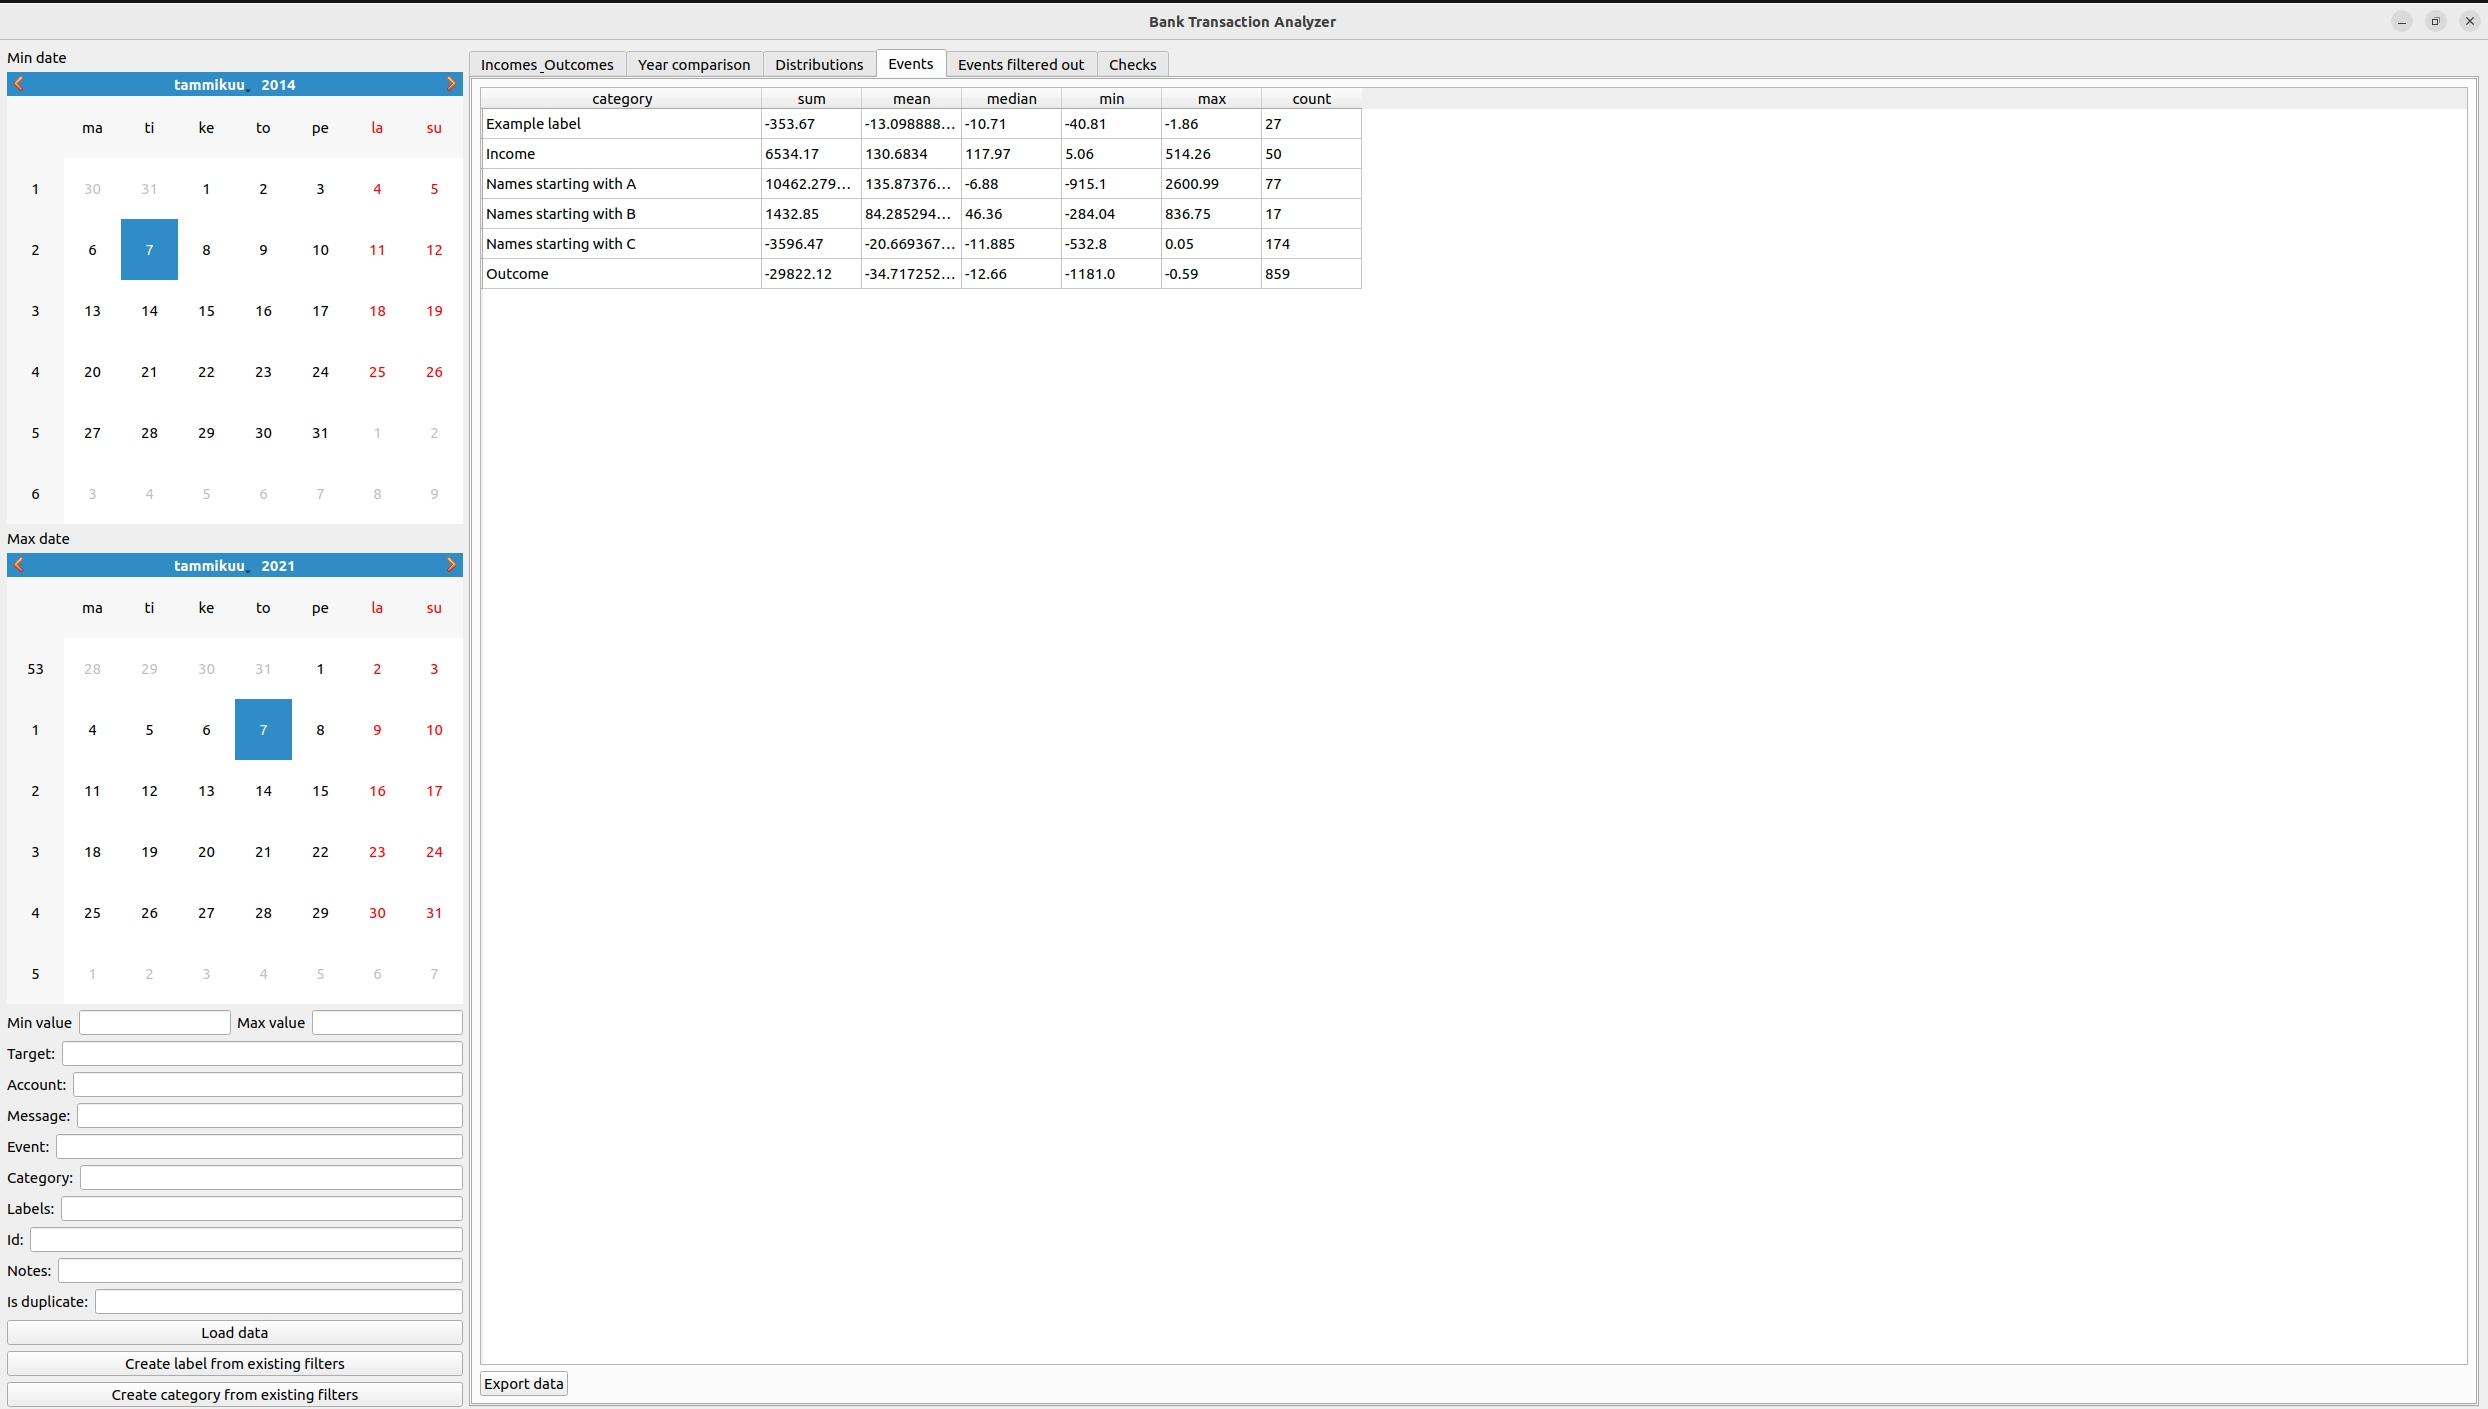
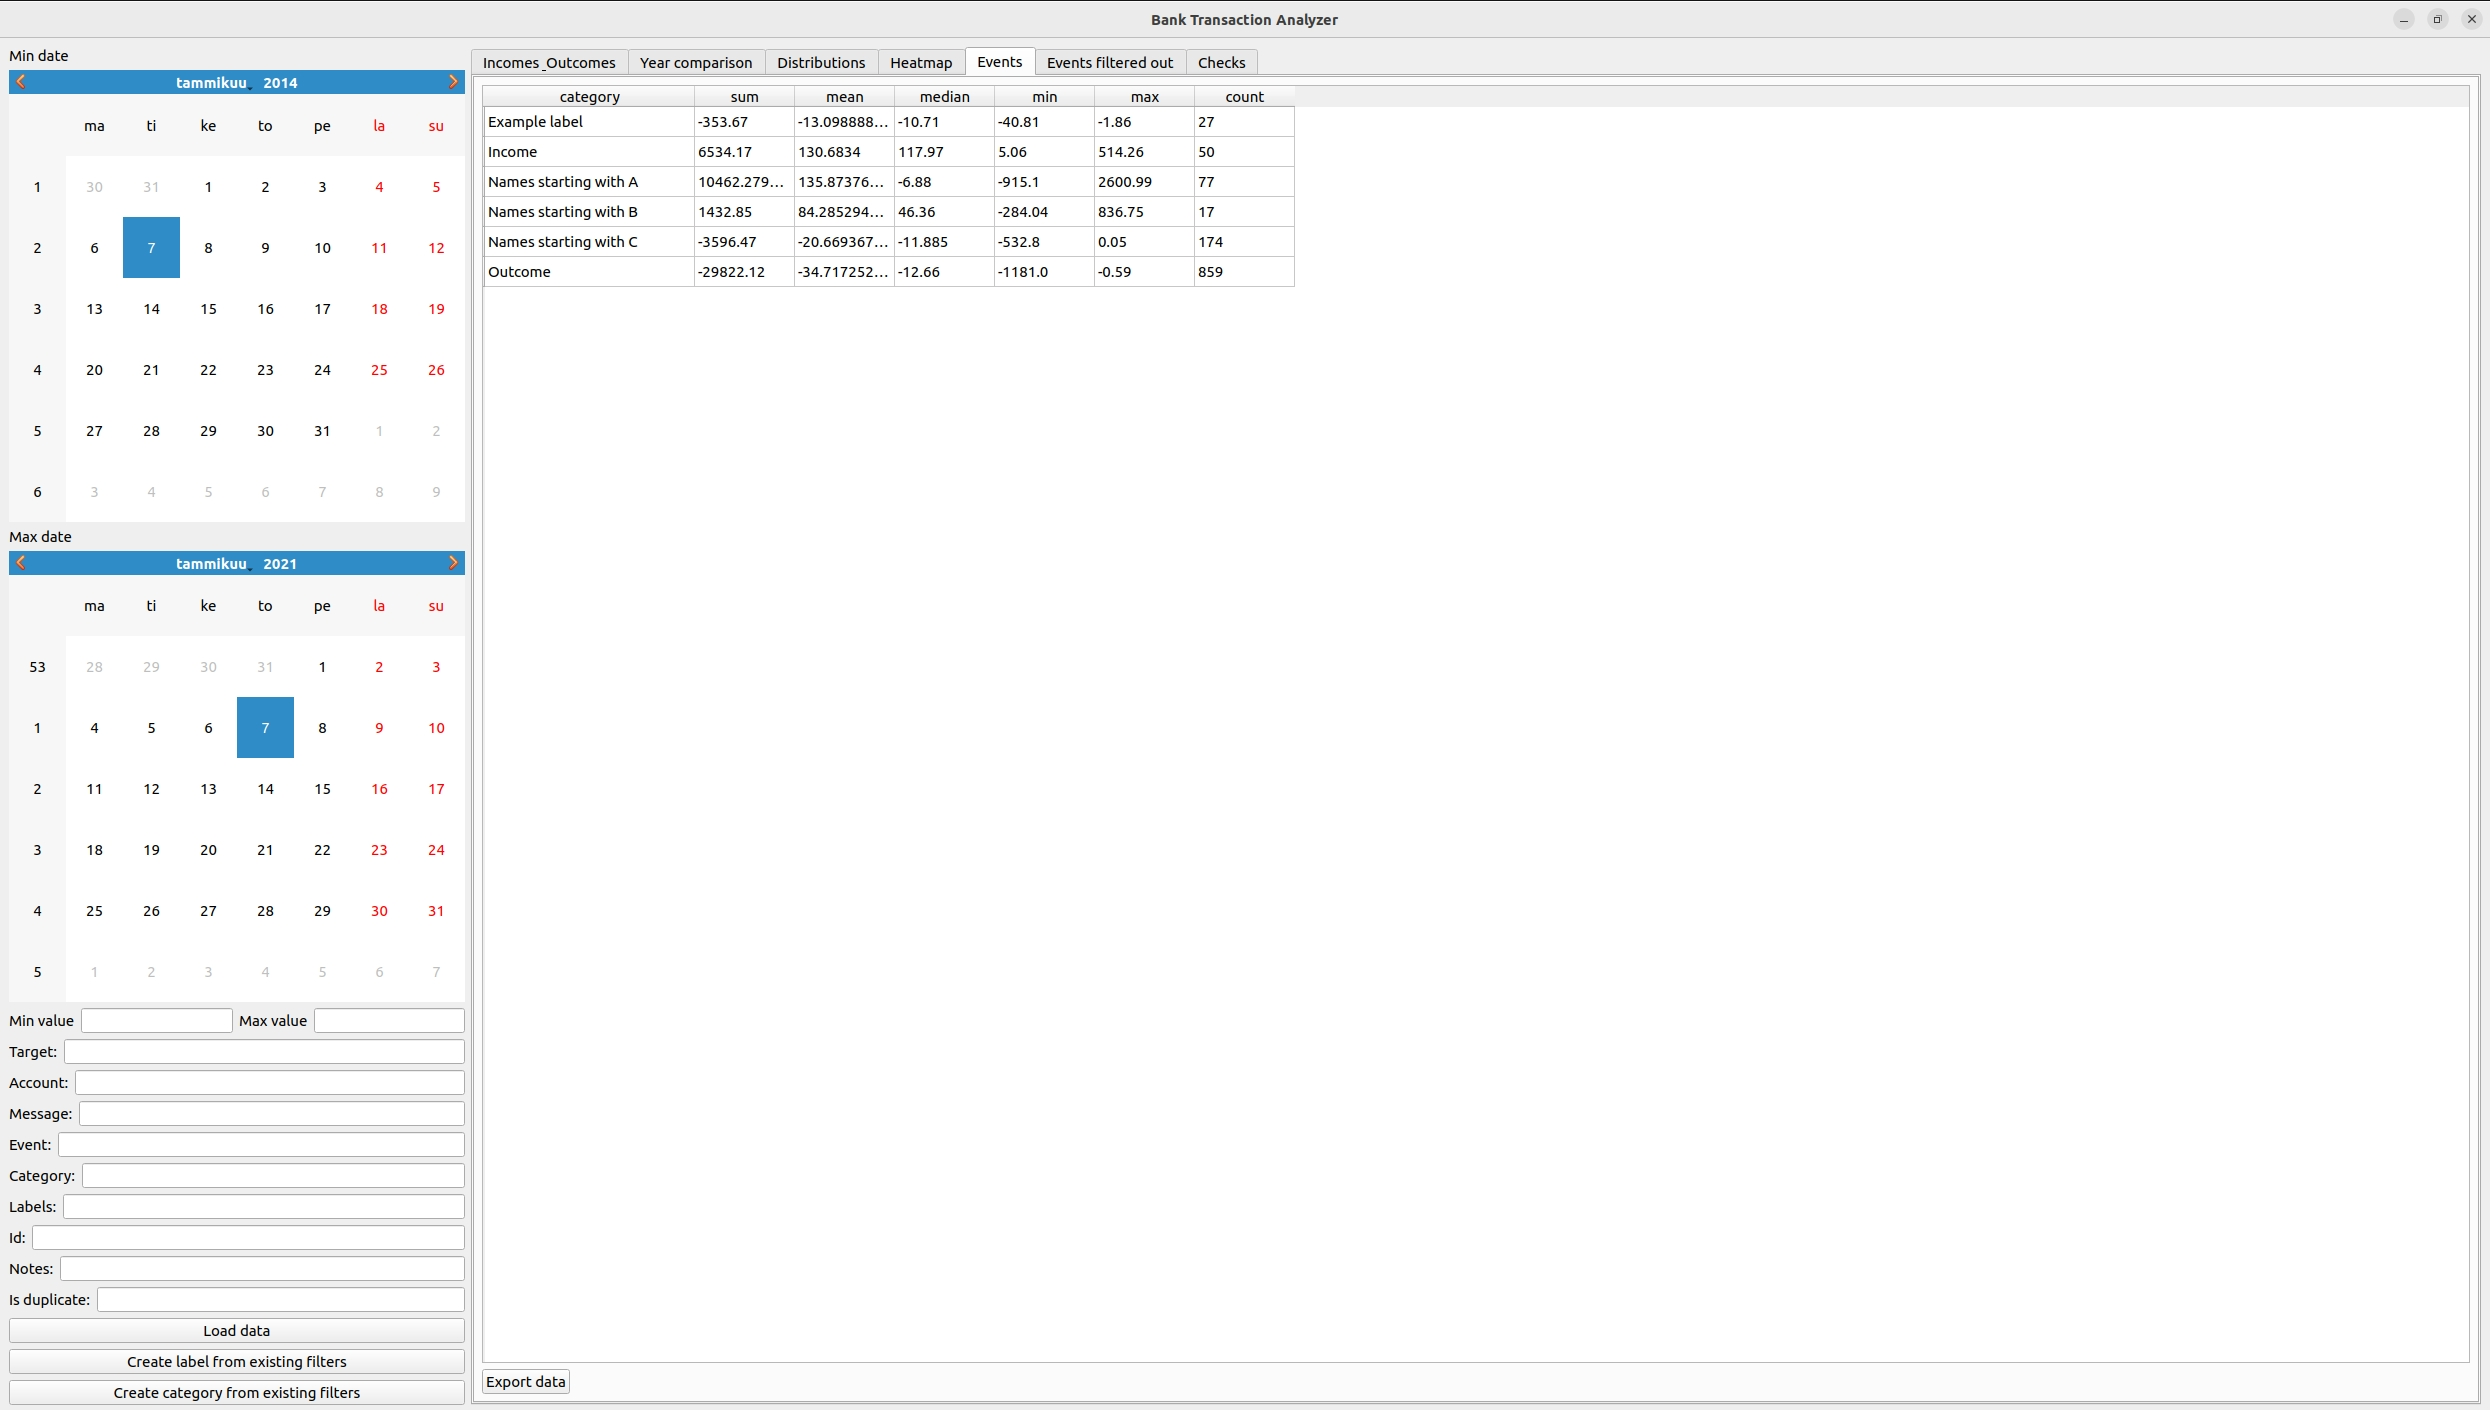
Update screenshots

diff --git a/README.md b/README.md
@@ -140,6 +140,10 @@ existing notes are shown in GUI.
 </p>
 
 <p align="center">
+<img src="screenshots/heatmap.jpg" width="800px" />
+</p>
+
+<p align="center">
 <img src="screenshots/events.jpg" width="800px" />
 </p>
 
